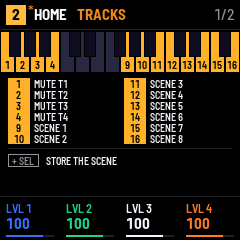
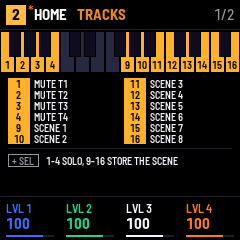
SOLO: HOME and SEL held, white key 1-4 solos the track; again, the mutes come back

Changed region(s): [[0.175, 0.6417, 0.7583, 0.7]]

diff --git a/app/ui.c b/app/ui.c
@@ -211,6 +211,8 @@ static struct {
                                                                    nwrote: notes of the chord written since the hold began */
     int pad, padheld;                          /* a KIT: its last pad played 0..15; the held pad's key + 1, 0 none */
     int homedown, savedown, seldown, msg_scene;   /* msg_scene: 1..8 asked */
+    int solo;                                  /* HOME and SEL held, white key 1-4: the track soloed + 1, 0 none */
+    uint8_t solo_mute;                         /* the mutes before it, back with the same keys */
     int fxdown, msg_punch;                     /* msg_punch: the punch-in last pressed 1..16, shown until punch_until */
     int fill;                                  /* FX held, black key 1 held: FILL (audio_fill) */
     uint16_t punch;                            /* the punch-ins held under FX, bit k = white key k + 1 */
@@ -1673,19 +1675,32 @@ static void scene_apply(const q_scene *sc)
     for (t = 0; t < Q_TRACKS; t++)
         ui.p->pattern[t] = sc->pat[t];
     ui.p->mute = sc->mute;
+    ui.solo = 0;
     sel_clear();
     ui.nchord = 0;
     if (ui.cursor > pat()->len)
         ui.cursor = 1;
 }
 
-/* HOME held and a white key: 0..3 mute the track, 8..15 the scene 1..8 */
+/* HOME held and a white key: 0..3 mute the track (SEL held too: solo it, again: the mutes back), 8..15 the scene 1..8 */
 static void home_key(int w)
 {
     q_scene *sc = &ui.p->scene[w < 8 ? 0 : w - 8];
     int t;
-    if (w < Q_TRACKS) {
+    if (w < Q_TRACKS && ui.seldown) {
+        if (ui.solo == w + 1) {
+            ui.p->mute = ui.solo_mute;
+            ui.solo = 0;
+        } else {
+            if (!ui.solo)
+                ui.solo_mute = ui.p->mute;
+            ui.p->mute = (uint8_t)(((1u << Q_TRACKS) - 1u) & ~(1u << w));
+            ui.solo = w + 1;
+        }
+        ui.dirty = 1;
+    } else if (w < Q_TRACKS) {
         ui.p->mute ^= (uint8_t)(1u << w);
+        ui.solo = 0;                    /* a mute by hand: the solo is over, these mutes stay */
         ui.dirty = 1;
     } else if (w >= 8 && (ui.seldown || !sc->used)) {
         for (t = 0; t < Q_TRACKS; t++)
@@ -3371,7 +3386,7 @@ static void draw_layer(const q_view *v, int32_t oy)
             int_text(i < Q_TRACKS ? i + 1 : i - 3, nb[i] + 6);
             tags[n] = tb[i], names[n++] = nb[i];
         }
-        combo[0][0] = "+ SEL", combo[0][1] = "STORE THE SCENE";
+        combo[0][0] = "+ SEL", combo[0][1] = "1-4 SOLO, 9-16 STORE THE SCENE";
         break;
     case B_CELL:
         combo[0][0] = "+ K1", combo[0][1] = "SET THE CELL";
@@ -3613,6 +3628,8 @@ void ui_init(q_project *p)
         for (k = 0; k < NKEYS; k++)
             key_up(k);
     __builtin_memset(&ui, 0, sizeof ui);
+    audio_punch(0);                     /* the render's latch and transposition go with ui's */
+    audio_transpose(0, 0);
     __builtin_memset(ui.key_note, -1, sizeof ui.key_note);
     __builtin_memset(ui.last_note, 60, sizeof ui.last_note);
     step_default(&ui.clip.st);
@@ -4272,6 +4289,7 @@ int ui_expect(const char *what, int *got)
     else if (!strcmp(what, "save_at_stop")) *got = ui.save_at_stop;
     else if (!strcmp(what, "msg_wipe")) *got = plat_ms() < ui.wipe_until;
     else if (!strcmp(what, "msg_random")) *got = plat_ms() < ui.rnd_until ? ui.rnd_kind : 0;
+    else if (!strcmp(what, "solo")) *got = ui.solo;
     else if (!strcmp(what, "latch")) *got = ui.latch;
     else if (!strcmp(what, "transpose")) *got = ui.transpose;
     else if (!strcmp(what, "msg_copy")) *got = plat_ms() < ui.copy_until ? ui.copy_kind : 0;

diff --git a/app/docs/MANUAL.md b/app/docs/MANUAL.md
@@ -188,6 +188,10 @@ on their pedestals, with the pattern each plays and its model, and its knobs are
 
 To mute a track, hold HOME and press white key 1–4. A muted track's pedestal goes dark and its key goes out.
 
+To solo a track, hold HOME and SEL and press its white key 1–4: the other three are muted. The same keys again put the
+mutes back as they were; another track's key solos that one instead. The solo is made of mutes: a scene stored
+meanwhile keeps it, and muting a track by hand ends it, leaving the mutes as they are.
+
 ### Patterns
 
 Each track has eight patterns, P1–P8. To pick one, hold SEQ and press white key 1–8, or turn PRESET on a STEP
